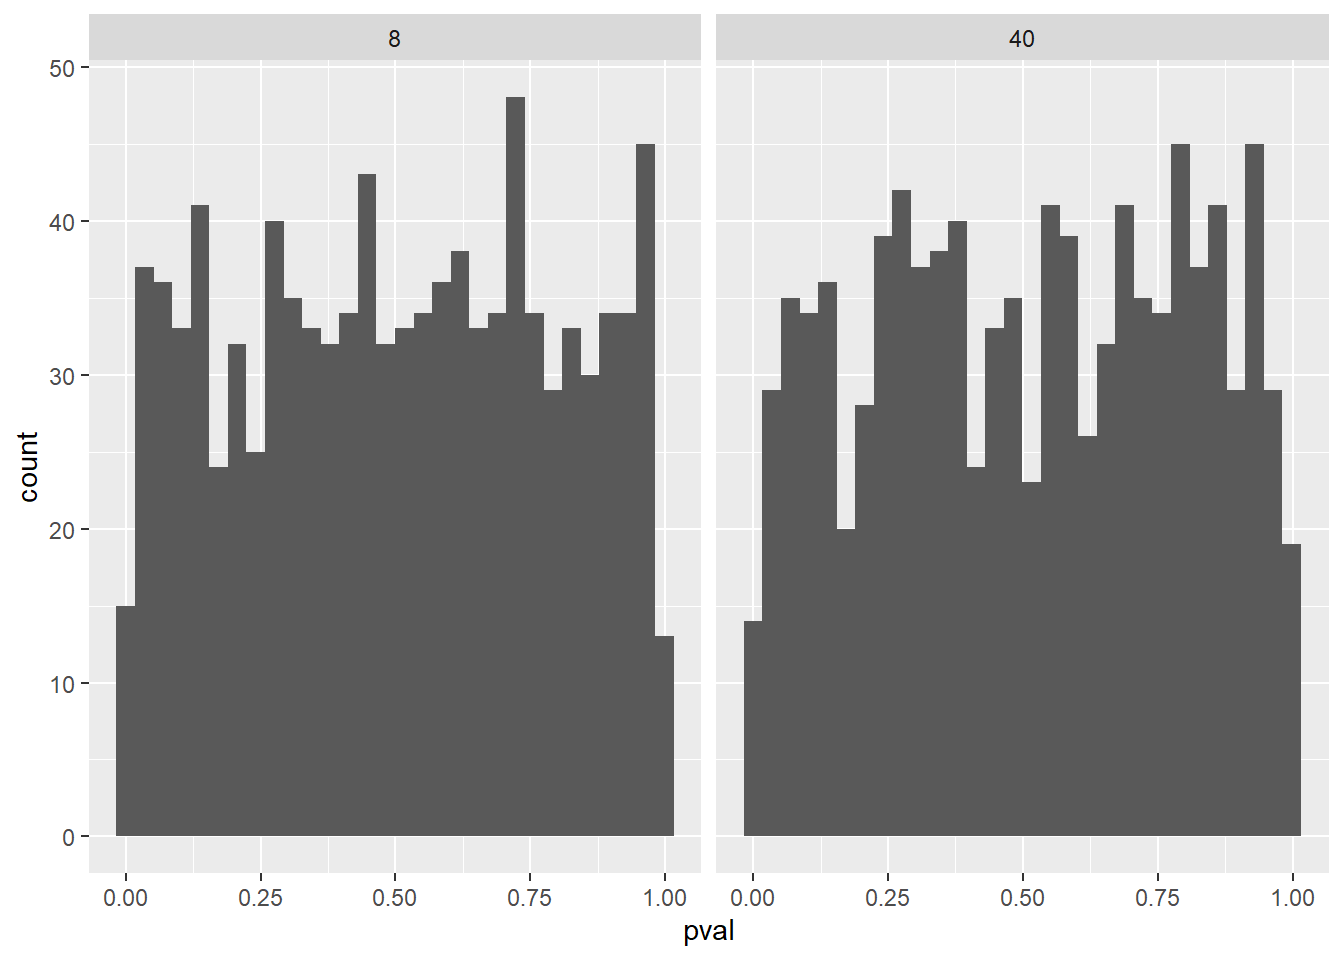
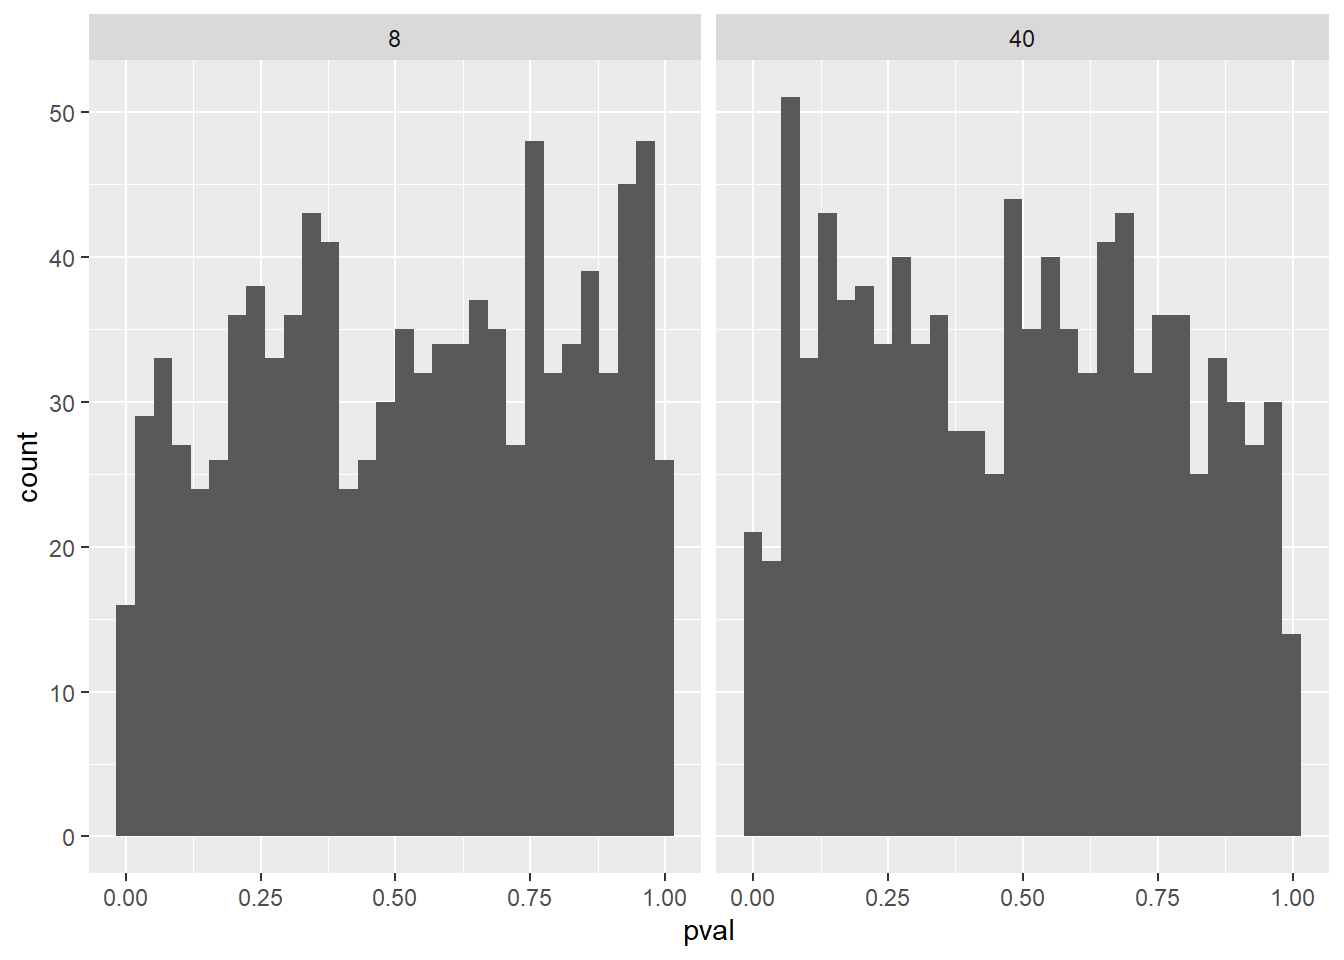
endret spørsmål 8

diff --git a/assignment3.html b/assignment3.html
@@ -1828,7 +1828,7 @@ ul.task-list{list-style: none;}
 </div>
 </div>
 <ol start="8" type="1">
-<li><a href="#fig-eight">Figure&nbsp;2</a> viser antall utvalg som har en viss p verdi. Vi ser at spredningen er nokså gjevn for både utvalgstørrelsen på 8 og 40. <a href="#tbl-eight">Table&nbsp;5</a> viser oss at 66 utvalg viser en falsk positiv om utvalgstørrelsen er på 8 observasjoner og 51 falske positive for en utvaglstørrelse på 40 observasjoner om man gjør 1000 reperterte studier. Dette betyr at sannsynligheten for å få et falskt positivt funn er større med en liten utvalgstørrelse til sammenligning med en større utvalgstørrelse.</li>
+<li><a href="#fig-eight">Figure&nbsp;2</a> viser antall utvalg som har en viss p verdi. Vi ser at spredningen er nokså gjevn for både utvalgstørrelsen på 8 og 40. <a href="#tbl-eight">Table&nbsp;5</a> viser oss at 45 utvalg viser en falsk positiv om utvalgstørrelsen er på 8 observasjoner og 39 falske positive for en utvaglstørrelse på 40 observasjoner om man gjør 1000 reperterte studier. Dette betyr at sannsynligheten for å få et falskt positivt funn er større med en liten utvalgstørrelse til sammenligning med en større utvalgstørrelse.</li>
 </ol>
 <div class="cell">
 <div class="cell-output-display">
@@ -1844,12 +1844,12 @@ ul.task-list{list-style: none;}
 <div class="cell-output-display">
 <div id="tbl-eight" class="anchored">
 
-<div id="vkipfnojqa" style="overflow-x:auto;overflow-y:auto;width:auto;height:auto;">
+<div id="dzmbikppkj" style="overflow-x:auto;overflow-y:auto;width:auto;height:auto;">
 <style>html {
   font-family: -apple-system, BlinkMacSystemFont, 'Segoe UI', Roboto, Oxygen, Ubuntu, Cantarell, 'Helvetica Neue', 'Fira Sans', 'Droid Sans', Arial, sans-serif;
 }
 
-#vkipfnojqa .gt_table {
+#dzmbikppkj .gt_table {
   display: table;
   border-collapse: collapse;
   margin-left: auto;
@@ -1874,7 +1874,7 @@ ul.task-list{list-style: none;}
   border-left-color: #D3D3D3;
 }
 
-#vkipfnojqa .gt_heading {
+#dzmbikppkj .gt_heading {
   background-color: #FFFFFF;
   text-align: center;
   border-bottom-color: #FFFFFF;
@@ -1886,7 +1886,7 @@ ul.task-list{list-style: none;}
   border-right-color: #D3D3D3;
 }
 
-#vkipfnojqa .gt_title {
+#dzmbikppkj .gt_title {
   color: #333333;
   font-size: 125%;
   font-weight: initial;
@@ -1898,7 +1898,7 @@ ul.task-list{list-style: none;}
   border-bottom-width: 0;
 }
 
-#vkipfnojqa .gt_subtitle {
+#dzmbikppkj .gt_subtitle {
   color: #333333;
   font-size: 85%;
   font-weight: initial;
@@ -1910,13 +1910,13 @@ ul.task-list{list-style: none;}
   border-top-width: 0;
 }
 
-#vkipfnojqa .gt_bottom_border {
+#dzmbikppkj .gt_bottom_border {
   border-bottom-style: solid;
   border-bottom-width: 2px;
   border-bottom-color: #D3D3D3;
 }
 
-#vkipfnojqa .gt_col_headings {
+#dzmbikppkj .gt_col_headings {
   border-top-style: solid;
   border-top-width: 2px;
   border-top-color: #D3D3D3;
@@ -1931,7 +1931,7 @@ ul.task-list{list-style: none;}
   border-right-color: #D3D3D3;
 }
 
-#vkipfnojqa .gt_col_heading {
+#dzmbikppkj .gt_col_heading {
   color: #333333;
   background-color: #FFFFFF;
   font-size: 100%;
@@ -1951,7 +1951,7 @@ ul.task-list{list-style: none;}
   overflow-x: hidden;
 }
 
-#vkipfnojqa .gt_column_spanner_outer {
+#dzmbikppkj .gt_column_spanner_outer {
   color: #333333;
   background-color: #FFFFFF;
   font-size: 100%;
@@ -1963,15 +1963,15 @@ ul.task-list{list-style: none;}
   padding-right: 4px;
 }
 
-#vkipfnojqa .gt_column_spanner_outer:first-child {
+#dzmbikppkj .gt_column_spanner_outer:first-child {
   padding-left: 0;
 }
 
-#vkipfnojqa .gt_column_spanner_outer:last-child {
+#dzmbikppkj .gt_column_spanner_outer:last-child {
   padding-right: 0;
 }
 
-#vkipfnojqa .gt_column_spanner {
+#dzmbikppkj .gt_column_spanner {
   border-bottom-style: solid;
   border-bottom-width: 2px;
   border-bottom-color: #D3D3D3;
@@ -1983,7 +1983,7 @@ ul.task-list{list-style: none;}
   width: 100%;
 }
 
-#vkipfnojqa .gt_group_heading {
+#dzmbikppkj .gt_group_heading {
   padding-top: 8px;
   padding-bottom: 8px;
   padding-left: 5px;
@@ -2008,7 +2008,7 @@ ul.task-list{list-style: none;}
   vertical-align: middle;
 }
 
-#vkipfnojqa .gt_empty_group_heading {
+#dzmbikppkj .gt_empty_group_heading {
   padding: 0.5px;
   color: #333333;
   background-color: #FFFFFF;
@@ -2023,15 +2023,15 @@ ul.task-list{list-style: none;}
   vertical-align: middle;
 }
 
-#vkipfnojqa .gt_from_md > :first-child {
+#dzmbikppkj .gt_from_md > :first-child {
   margin-top: 0;
 }
 
-#vkipfnojqa .gt_from_md > :last-child {
+#dzmbikppkj .gt_from_md > :last-child {
   margin-bottom: 0;
 }
 
-#vkipfnojqa .gt_row {
+#dzmbikppkj .gt_row {
   padding-top: 8px;
   padding-bottom: 8px;
   padding-left: 5px;
@@ -2050,7 +2050,7 @@ ul.task-list{list-style: none;}
   overflow-x: hidden;
 }
 
-#vkipfnojqa .gt_stub {
+#dzmbikppkj .gt_stub {
   color: #333333;
   background-color: #FFFFFF;
   font-size: 100%;
@@ -2063,7 +2063,7 @@ ul.task-list{list-style: none;}
   padding-right: 5px;
 }
 
-#vkipfnojqa .gt_stub_row_group {
+#dzmbikppkj .gt_stub_row_group {
   color: #333333;
   background-color: #FFFFFF;
   font-size: 100%;
@@ -2077,11 +2077,11 @@ ul.task-list{list-style: none;}
   vertical-align: top;
 }
 
-#vkipfnojqa .gt_row_group_first td {
+#dzmbikppkj .gt_row_group_first td {
   border-top-width: 2px;
 }
 
-#vkipfnojqa .gt_summary_row {
+#dzmbikppkj .gt_summary_row {
   color: #333333;
   background-color: #FFFFFF;
   text-transform: inherit;
@@ -2091,16 +2091,16 @@ ul.task-list{list-style: none;}
   padding-right: 5px;
 }
 
-#vkipfnojqa .gt_first_summary_row {
+#dzmbikppkj .gt_first_summary_row {
   border-top-style: solid;
   border-top-color: #D3D3D3;
 }
 
-#vkipfnojqa .gt_first_summary_row.thick {
+#dzmbikppkj .gt_first_summary_row.thick {
   border-top-width: 2px;
 }
 
-#vkipfnojqa .gt_last_summary_row {
+#dzmbikppkj .gt_last_summary_row {
   padding-top: 8px;
   padding-bottom: 8px;
   padding-left: 5px;
@@ -2110,7 +2110,7 @@ ul.task-list{list-style: none;}
   border-bottom-color: #D3D3D3;
 }
 
-#vkipfnojqa .gt_grand_summary_row {
+#dzmbikppkj .gt_grand_summary_row {
   color: #333333;
   background-color: #FFFFFF;
   text-transform: inherit;
@@ -2120,7 +2120,7 @@ ul.task-list{list-style: none;}
   padding-right: 5px;
 }
 
-#vkipfnojqa .gt_first_grand_summary_row {
+#dzmbikppkj .gt_first_grand_summary_row {
   padding-top: 8px;
   padding-bottom: 8px;
   padding-left: 5px;
@@ -2130,11 +2130,11 @@ ul.task-list{list-style: none;}
   border-top-color: #D3D3D3;
 }
 
-#vkipfnojqa .gt_striped {
+#dzmbikppkj .gt_striped {
   background-color: rgba(128, 128, 128, 0.05);
 }
 
-#vkipfnojqa .gt_table_body {
+#dzmbikppkj .gt_table_body {
   border-top-style: solid;
   border-top-width: 2px;
   border-top-color: #D3D3D3;
@@ -2143,7 +2143,7 @@ ul.task-list{list-style: none;}
   border-bottom-color: #D3D3D3;
 }
 
-#vkipfnojqa .gt_footnotes {
+#dzmbikppkj .gt_footnotes {
   color: #333333;
   background-color: #FFFFFF;
   border-bottom-style: none;
@@ -2157,7 +2157,7 @@ ul.task-list{list-style: none;}
   border-right-color: #D3D3D3;
 }
 
-#vkipfnojqa .gt_footnote {
+#dzmbikppkj .gt_footnote {
   margin: 0px;
   font-size: 90%;
   padding-left: 4px;
@@ -2166,7 +2166,7 @@ ul.task-list{list-style: none;}
   padding-right: 5px;
 }
 
-#vkipfnojqa .gt_sourcenotes {
+#dzmbikppkj .gt_sourcenotes {
   color: #333333;
   background-color: #FFFFFF;
   border-bottom-style: none;
@@ -2180,7 +2180,7 @@ ul.task-list{list-style: none;}
   border-right-color: #D3D3D3;
 }
 
-#vkipfnojqa .gt_sourcenote {
+#dzmbikppkj .gt_sourcenote {
   font-size: 90%;
   padding-top: 4px;
   padding-bottom: 4px;
@@ -2188,64 +2188,64 @@ ul.task-list{list-style: none;}
   padding-right: 5px;
 }
 
-#vkipfnojqa .gt_left {
+#dzmbikppkj .gt_left {
   text-align: left;
 }
 
-#vkipfnojqa .gt_center {
+#dzmbikppkj .gt_center {
   text-align: center;
 }
 
-#vkipfnojqa .gt_right {
+#dzmbikppkj .gt_right {
   text-align: right;
   font-variant-numeric: tabular-nums;
 }
 
-#vkipfnojqa .gt_font_normal {
+#dzmbikppkj .gt_font_normal {
   font-weight: normal;
 }
 
-#vkipfnojqa .gt_font_bold {
+#dzmbikppkj .gt_font_bold {
   font-weight: bold;
 }
 
-#vkipfnojqa .gt_font_italic {
+#dzmbikppkj .gt_font_italic {
   font-style: italic;
 }
 
-#vkipfnojqa .gt_super {
+#dzmbikppkj .gt_super {
   font-size: 65%;
 }
 
-#vkipfnojqa .gt_footnote_marks {
+#dzmbikppkj .gt_footnote_marks {
   font-style: italic;
   font-weight: normal;
   font-size: 75%;
   vertical-align: 0.4em;
 }
 
-#vkipfnojqa .gt_asterisk {
+#dzmbikppkj .gt_asterisk {
   font-size: 100%;
   vertical-align: 0;
 }
 
-#vkipfnojqa .gt_indent_1 {
+#dzmbikppkj .gt_indent_1 {
   text-indent: 5px;
 }
 
-#vkipfnojqa .gt_indent_2 {
+#dzmbikppkj .gt_indent_2 {
   text-indent: 10px;
 }
 
-#vkipfnojqa .gt_indent_3 {
+#dzmbikppkj .gt_indent_3 {
   text-indent: 15px;
 }
 
-#vkipfnojqa .gt_indent_4 {
+#dzmbikppkj .gt_indent_4 {
   text-indent: 20px;
 }
 
-#vkipfnojqa .gt_indent_5 {
+#dzmbikppkj .gt_indent_5 {
   text-indent: 25px;
 }
 </style>
@@ -2255,13 +2255,16 @@ ul.task-list{list-style: none;}
     <tr>
       <th class="gt_col_heading gt_columns_bottom_border gt_right" rowspan="1" colspan="1" scope="col">Sample Size</th>
       <th class="gt_col_heading gt_columns_bottom_border gt_right" rowspan="1" colspan="1" scope="col">Significant Results</th>
+      <th class="gt_col_heading gt_columns_bottom_border gt_right" rowspan="1" colspan="1" scope="col">Percentage</th>
     </tr>
   </thead>
   <tbody class="gt_table_body">
     <tr><td class="gt_row gt_right">8</td>
-<td class="gt_row gt_right">51</td></tr>
+<td class="gt_row gt_right">45</td>
+<td class="gt_row gt_right">4.5</td></tr>
     <tr><td class="gt_row gt_right">40</td>
-<td class="gt_row gt_right">41</td></tr>
+<td class="gt_row gt_right">39</td>
+<td class="gt_row gt_right">3.9</td></tr>
   </tbody>
   
   
